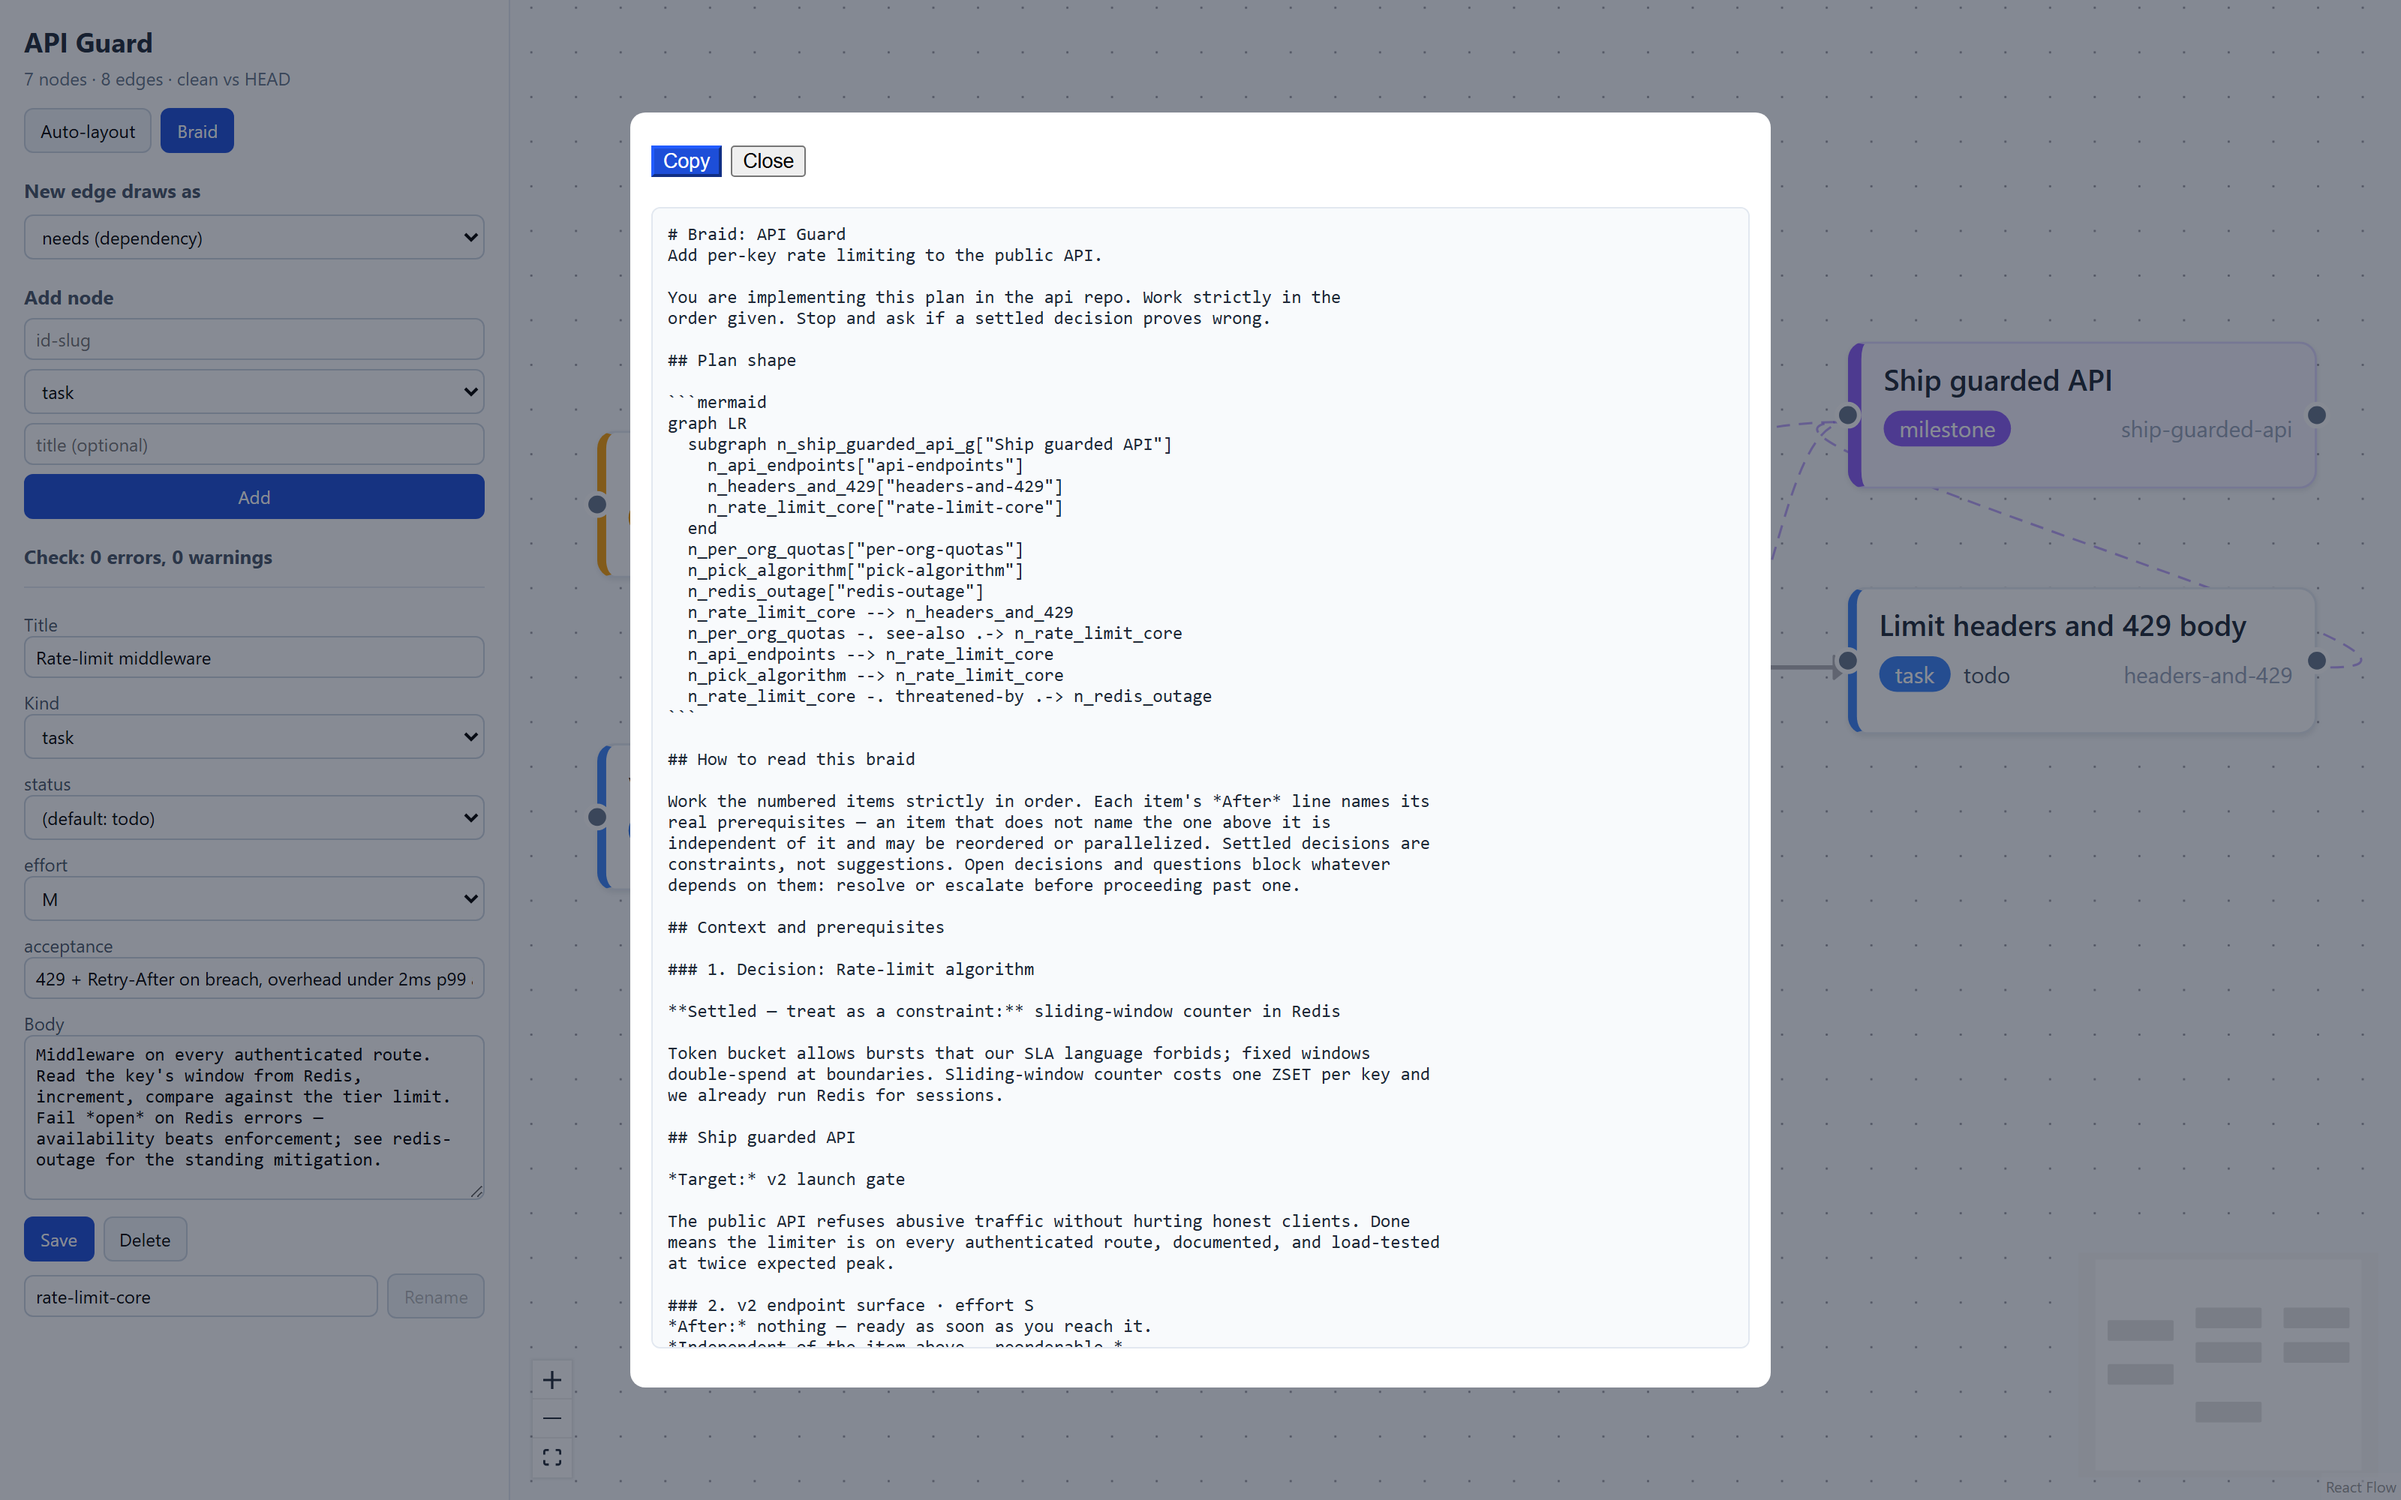
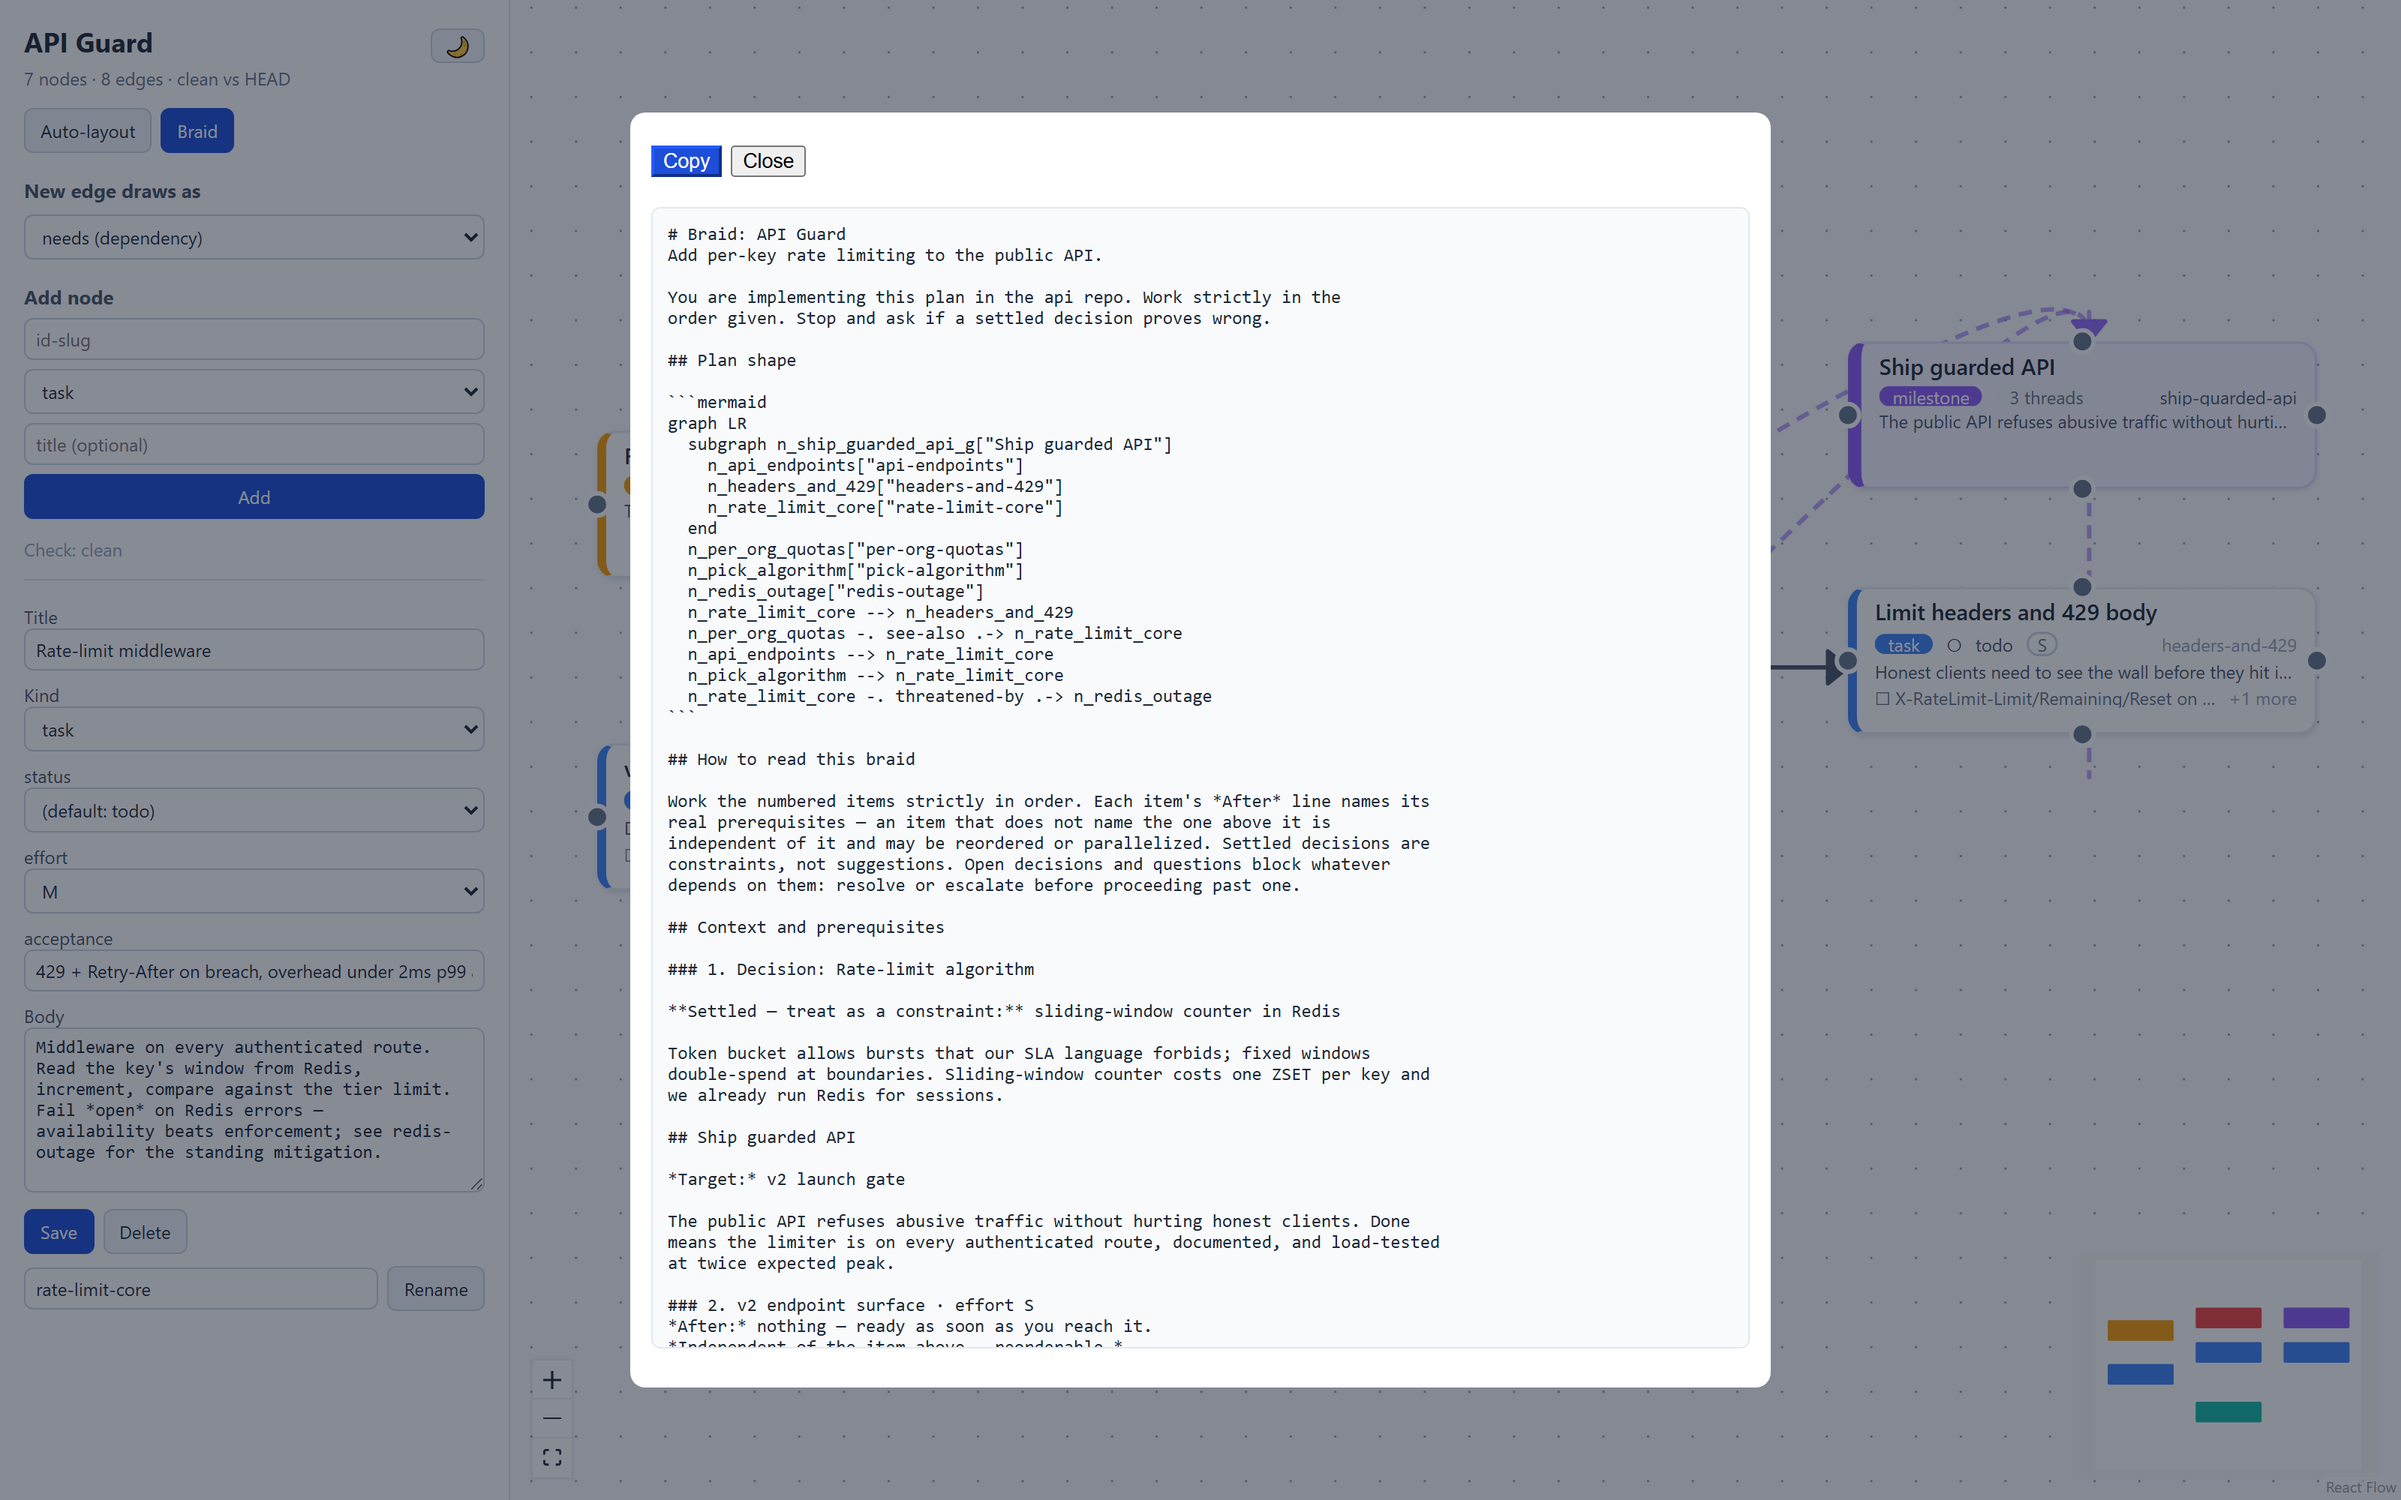
M7 close: demo journaled, docs gate passed, screenshots re-shot, retro

diff --git a/build/state/journal.md b/build/state/journal.md
@@ -634,3 +634,27 @@ files unlinted despite CONVENTIONS' promise → K24 queued. The flag-triage
 rule paid for itself one loop after it was written.
 
 **Gated by me:** ruff, mypy, 128 tests, lint, mkdocs strict — green.
+
+## M7 close + retro — 2026-08-24, through iteration 23
+
+**Demo, run for real on plans/roadmap in dark mode (actual outputs):**
+focus on semantic-zoom -> upstream=['tokens-dark'],
+downstream=['crew-work','feel-work','shape-work'], dimmed=25, hint
+"Focused on Three-tier semantic zoom — upstream 1, downstream 3. Esc to
+exit."; silhouette 30/30 nodes at far tier; palette body-only query
+"distance fade" -> found focus-cones with snippet, Enter selected it. Two
+demo-script fumbles were mine, not the product's (wrong selector, then a
+query that existed only in source code) — the checker had driven both paths
+correctly an hour earlier.
+
+**Docs gate:** mkdocs strict green; editor.md grew per-item sections all
+milestone; shortcuts reference shipped with K22; all three screenshots
+re-shot (the hero now shows near-tier cards, glyphs, ports, and the theme
+toggle); README commands unchanged so no clean-checkout re-verification
+owed. CHANGELOG M7 entry written.
+
+**Retro folded:** small-item combined checker+critic variant; playwright-
+not-pane screenshot tooling note. Flag-triage validated in the wild (K23,
+K24 born from builder flags). loop.json: iteration=23, last_retro=23,
+guard cleared. M7 complete 6/6; next up K23/K24 hygiene, then M8 shape-work
+split. Pushing at milestone close per standing say-so.

diff --git a/CHANGELOG.md b/CHANGELOG.md
@@ -7,6 +7,15 @@ All notable changes to Kumihimo. Format follows
 ## [Unreleased]
 
 ### Added
+- M7, the canvas learns to explain itself: design tokens with full dark
+  mode; per-kind edge ports with readable arrowheads, hover tooltips that
+  speak in titles, and an edge panel; double-click focus tinting a node's
+  upstream/downstream cones with distance fade plus alt-click path tracing;
+  three-tier semantic zoom (silhouette chips to in-card body previews and
+  acceptance, always inside the same footprint); finding halos with
+  click-to-jump; a Ctrl+K palette searching prose as well as titles; and
+  graph-directional keyboard navigation. Shortcuts reference at
+  docs/reference/shortcuts.md.
 - M6, the release pass: the documentation site (mkdocs-material — tutorial,
   concepts, how-tos for custom kinds/MCP/editor, full CLI/format/MCP/API
   reference; deployed to GitHub Pages on every push to main);

diff --git a/.claude/skills/kumihimo-iteration/SKILL.md b/.claude/skills/kumihimo-iteration/SKILL.md
@@ -82,6 +82,12 @@ the orchestrator keeps the gates. Rules that made it work:
   Briefs quote the queue item; roadmap nodes summarize and point; plan prose
   is design rationale, not acceptance. When copies disagree, fix the copies
   in the same iteration.
+- **Small items may combine checker+critic in one agent** (both hats, one
+  brief) — used for K21/K22; the evidence bars still apply separately.
+- **Verification screenshots come from playwright's own chromium**, which
+  composites offscreen. The Claude Browser pane cannot screenshot in this
+  environment (hidden, no frames) — an agent told to use it will burn its
+  budget discovering that; brief the tool explicitly.
 - **A written-down "accepted" visual tradeoff expires at the next critic
   pass.** The near-tier overlap was pre-accepted in a CSS comment and died
   the moment someone looked at real pixels. Comments don't outrank eyes.

diff --git a/.claude/skills/kumihimo-manage/SKILL.md b/.claude/skills/kumihimo-manage/SKILL.md
@@ -134,3 +134,10 @@ is alive, and a gap in it is itself a finding for the next retro.
   (the near-tier overlap comment); manage skill gained the
   queue-is-acceptance-authority grooming rule. Fix-round throughput note:
   warm-builder rounds ran 2-8 minutes against 12-17 minute cold builds.
+- 2026-08-24 — retro at M7 close (iterations 22-23): iteration skill
+  gained the small-item combined checker+critic variant and the
+  playwright-not-pane screenshot note (a reviewer burned budget on the
+  hidden pane, then verified honestly via computed styles). Flag-triage
+  paid one loop after adoption: K22's builder flags became queue items
+  K23 (App.tsx split) and K24 (TS linter coverage) instead of lost
+  remarks. Nothing pruned.
